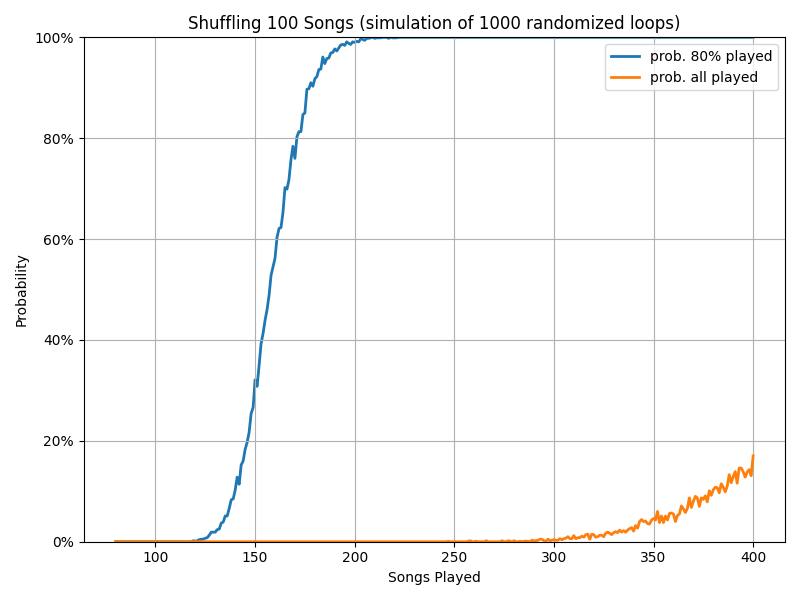
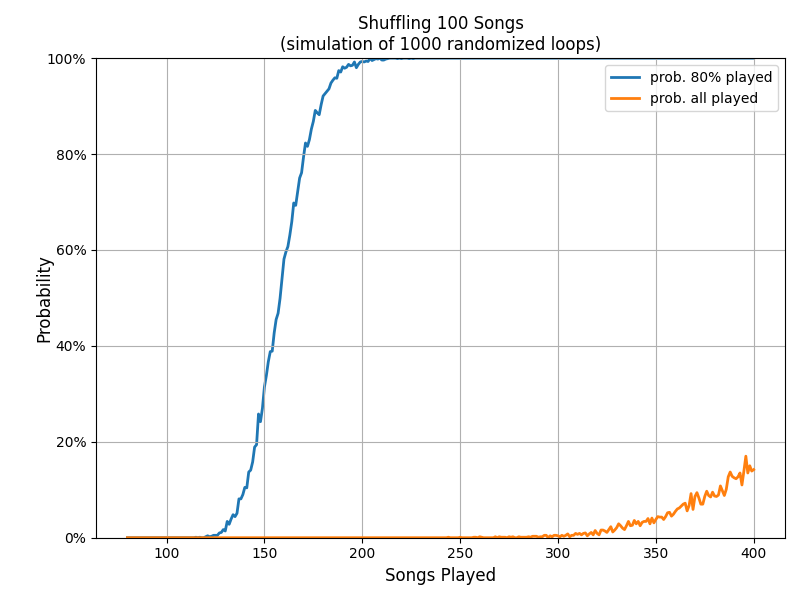
chart layout

diff --git a/shuffle-music/shuffle-music-random.py b/shuffle-music/shuffle-music-random.py
@@ -72,7 +72,7 @@ def loop_over_rand_playorders(total_songs: int, num_songs_played: int, num_test_
 
 
 if __name__ == '__main__':
-    total_songs = 100
+    total_songs = 20
     num_test_loops = 1000
     time_start = time.time()
 
@@ -117,7 +117,7 @@ if __name__ == '__main__':
     df.set_index(['num_songs_played'], inplace=True)
     # print(df.head())
 
-    fig, axes = plt.subplots(figsize=(8, 6))
+    fig, axes = plt.subplots(figsize=(8.00, 6.00))  # 10.80/2, 19.20/2
     df['pct_80pct_played'].plot(linewidth=2.0, legend=True, zorder=1)
     df['pct_all_played'].plot(linewidth=2.0, legend=True, zorder=2)
     axes.set_ylim(0, 100)
@@ -125,9 +125,9 @@ if __name__ == '__main__':
     axes.yaxis.set_major_formatter(mtick.PercentFormatter())
     plt.legend(['prob. 80% played', 'prob. all played'])
     plt.title(
-        f'Shuffling {total_songs} Songs (simulation of {num_test_loops} randomized loops)')
-    plt.xlabel(f"Songs Played")
-    plt.ylabel(f"Probability")
+        f'Shuffling {total_songs} Songs\n(simulation of {num_test_loops} randomized loops)')
+    plt.xlabel(f"Songs Played", fontsize=12)
+    plt.ylabel(f"\nProbability", fontsize=12, labelpad=-5)
     plt.grid(zorder=-1)
     plt.tight_layout()
     plt.savefig(fname=f'shuffle-music/shuffle-music-random-%03d.png' %
